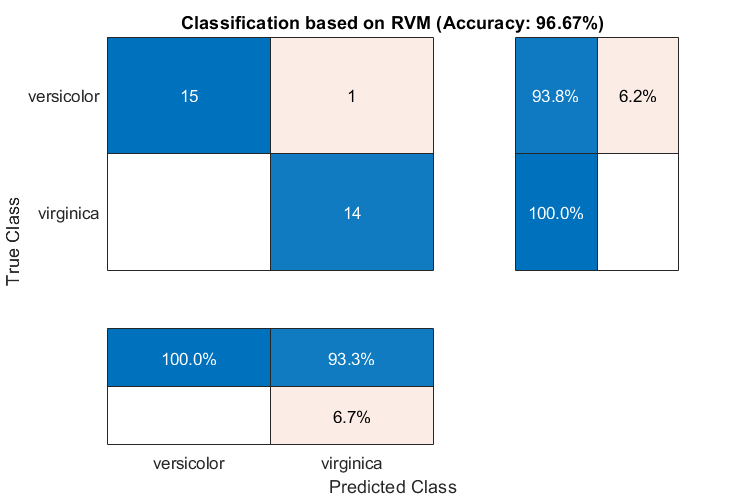
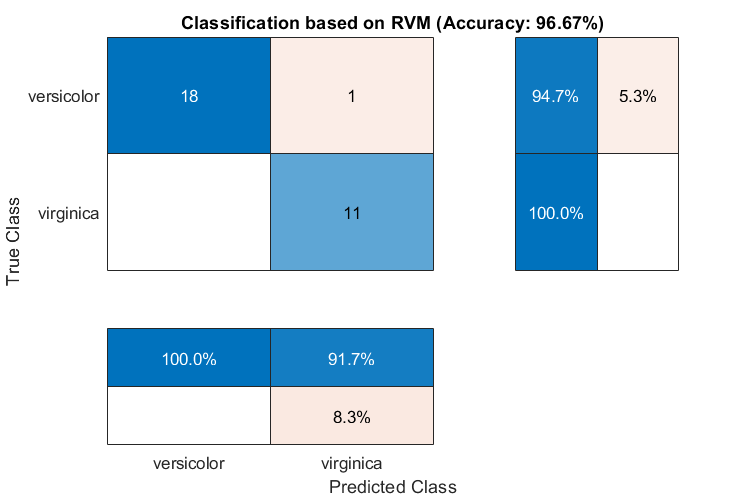
updated RVM code

diff --git a/RvmModel/RvmOption.m b/RvmModel/RvmOption.m
@@ -110,7 +110,7 @@ classdef RvmOption < handle
             name_ = fieldnames(parameter);
             for i = 1:size(name_, 1)
                 switch name_{i}
-                    case {'Holdout', 'KFold', 'Leaveout'}
+                    case {'HoldOut', 'KFold'}
                         obj.crossValidation.switch = 'on';
                         obj.crossValidation.method = name_{i, 1};
                         obj.crossValidation.param = parameter.(name_{i, 1});
@@ -141,7 +141,12 @@ classdef RvmOption < handle
         
         function displayTrain(obj)
             fprintf('\n')
-            fprintf('*** RVM model training finished ***\n')
+            switch obj.type
+                case 'RVR'
+                    fprintf('*** RVM model (regression) train finished ***\n')
+                case 'RVC'
+                    fprintf('*** RVM model (classification) train finished ***\n')
+            end
             fprintf('running time            = %.4f seconds\n', obj.runningTime)
             fprintf('iterations              = %d \n', obj.numIterations)
             fprintf('number of samples       = %d \n', obj.numSamples)
@@ -154,16 +159,6 @@ classdef RvmOption < handle
                     fprintf('MAE                     = %.4f\n', obj.performance.MAE)
                 case 'RVC'
                     fprintf('accuracy                = %.4f%%\n', 100*obj.performance.accuracy)
-                    if strcmp(obj.crossValidation.switch, 'on')
-                        tmp_1 = '(';
-                        tmp_2 = obj.crossValidation.method;
-                        tmp_3 = ', ';
-                        tmp_4 = num2str(obj.crossValidation.param);
-                        tmp_5 = ')';
-                        tmp_ = [tmp_1, tmp_2, tmp_3, tmp_4, tmp_5];
-                        tmp = ['CV accuracy ', tmp_, '  = %.4f%%\n'];
-                        fprintf(tmp, 100*obj.crossValidation.accuracy)
-                    end
             end
             if strcmp(obj.optimization.switch, 'on')
                 fprintf('Optimized parameter')
@@ -178,7 +173,12 @@ classdef RvmOption < handle
 
         function displayTest(obj)
             fprintf('\n')
-            fprintf('*** RVM model test finished ***\n')
+            switch obj.type
+                case 'RVR'
+                    fprintf('*** RVM model (regression) test finished ***\n')
+                case 'RVC'
+                    fprintf('*** RVM model (classification) test finished ***\n')
+            end
             fprintf('running time            = %.4f seconds\n', obj.runningTime)
             fprintf('number of samples       = %d \n', obj.numSamples)
             switch obj.type

diff --git a/RvmModel/RvmOptimization.m b/RvmModel/RvmOptimization.m
@@ -120,12 +120,13 @@ classdef RvmOptimization < handle
             RvmOptimizationOption.setParameter(rvm_);
             % cross validation
             if strcmp(rvm_.crossValidation.switch, 'on')
-                objValue = 1-RvmOptimization.crossvalFunc(rvm_);
+                objValue = RvmOptimization.crossvalFunc(rvm_);
             else
                 % train with all samples
                 rvm_.getModel;
+                evaluationMode_ = rvm_.evaluationMode;
                 rvm_.evaluationMode = 'train';
-                results_ = test(rvm_, rvm_.data, rvm_.label);
+                results_ = test(rvm_, rvm_.data, rvm_.label_);
                 rvm_.performance = rvm_.evaluateModel(results_);
                 switch rvm_.type
                     case 'RVR'
@@ -133,6 +134,7 @@ classdef RvmOptimization < handle
                     case 'RVC'
                         objValue = 1-rvm_.performance.accuracy;
                 end
+                rvm_.evaluationMode = evaluationMode_;
             end
         end
         
@@ -143,7 +145,7 @@ classdef RvmOptimization < handle
             rng('default')
             rvm_ = copy(rvm);
             data_ = rvm_.data;
-            label_ = rvm_.label;
+            label_ = rvm_.label_;
             rvm_.display = 'off';
             rvm_.evaluationMode = 'train';
             cvIndices = crossvalind(rvm.crossValidation.method, ...
@@ -156,7 +158,7 @@ classdef RvmOptimization < handle
                         testData = data_(testIndices, :);
                         testLabel = label_(testIndices, :);
                         rvm_.data = data_(~testIndices, :);
-                        rvm_.label = label_(~testIndices, :);
+                        rvm_.label_ = label_(~testIndices, :);
                         try
                             rvm_.getModel;
                         catch
@@ -173,12 +175,12 @@ classdef RvmOptimization < handle
                     end
                     accuracy_(accuracy_ == Inf) = [];
                     accuracy = mean(accuracy_);
-                case 'Holdout'
+                case 'HoldOut'
                     testIndices = (cvIndices == 0);
                     testData = data_(testIndices, :);
                     testLabel = label_(testIndices, :);
                     rvm_.data = data_(~testIndices, :);
-                    rvm_.label = label_(~testIndices, :);
+                    rvm_.label_ = label_(~testIndices, :);
                     rvm_.getModel;
                     results = rvm_.test(testData, testLabel);
                     switch rvm_.type

diff --git a/RvmModel/BaseRVM.m b/RvmModel/BaseRVM.m
@@ -68,7 +68,12 @@ classdef BaseRVM < handle & matlab.mixin.Copyable
             else
                 getModel(obj);
             end
-            
+%            % cross validation
+%             if strcmp(obj.crossValidation.switch, 'on')
+%                 rvm_ = copy(obj);
+%                 obj.crossValidation.accuracy = RvmOptimization.crossvalFunc(rvm_);
+%             end
+
             obj.runningTime = toc(tStart);
             % display
             if strcmp(obj.display, 'on')
@@ -148,7 +153,7 @@ classdef BaseRVM < handle & matlab.mixin.Copyable
             evaluationMode_ = obj.evaluationMode;
             obj.display = 'off';
             obj.evaluationMode = 'train';
-            results_ = test(obj, obj.data, obj.label);
+            results_ = test(obj, obj.data, obj.label_);
             obj.display = display_;
             obj.evaluationMode = evaluationMode_;
             obj.performance = evaluateModel(obj, results_);
@@ -158,9 +163,10 @@ classdef BaseRVM < handle & matlab.mixin.Copyable
             tStart = tic;
             results.type = obj.type;
             results.label = label;
+            results.label_ = label;
             results.data = data;
             results.classNames = unique(label);
-            if strcmp(obj.type, 'RVC')
+            if strcmp(obj.type, 'RVC') && strcmp(obj.evaluationMode,'test')
                 results.label_ = RvmOption.checkLabel(results, label);
             end
             results.numSamples = size(results.data, 1);

diff --git a/custom_option.m b/custom_option.m
@@ -1,0 +1,42 @@
+%% custom optimization option
+%{      
+    opt.method = 'bayes'; % bayes, ga, pso
+    opt.display = 'on';
+    opt.iteration = 20;
+    opt.point = 10;
+
+    % gaussian kernel function
+    opt.gaussian.parameterName = {'gamma'};
+    opt.gaussian.parameterType = {'real'};
+    opt.gaussian.lowerBound = 2^-6;
+    opt.gaussian.upperBound = 2^6;
+
+    % laplacian kernel function
+    opt.laplacian.parameterName = {'gamma'};
+    opt.laplacian.parameterType = {'real'};
+    opt.laplacian.lowerBound = 2^-6;
+    opt.laplacian.upperBound = 2^6;
+
+    % polynomial kernel function
+    opt.polynomial.parameterName = {'gamma'; 'offset'; 'degree'};
+    opt.polynomial.parameterType = {'real'; 'real'; 'integer'};
+    opt.polynomial.lowerBound = [2^-6; 2^-6; 1];
+    opt.polynomial.upperBound = [2^6; 2^6; 7];
+
+    % sigmoid kernel function
+    opt.sigmoid.parameterName = {'gamma'; 'offset'};
+    opt.sigmoid.parameterType = {'real'; 'real'};
+    opt.sigmoid.lowerBound = [2^-6; 2^-6];
+    opt.sigmoid.upperBound = [2^6; 2^6];
+%}
+
+%% RVM model parameter
+%{
+    'display'    :   'on', 'off'
+    'type'       :   'RVR', 'RVC'
+    'kernelFunc' :   kernel function
+    'KFolds'     :   cross validation, for example, 5
+    'HoldOut'    :   cross validation, for example, 0.3
+    'freeBasis'  :   'on', 'off'
+    'maxIter'    :   max iteration, for example, 1000
+%}

diff --git a/demo_hybrid_kernel_optimization.m b/demo_hybrid_kernel_optimization.m
@@ -8,21 +8,17 @@ clear all
 close all
 addpath(genpath(pwd))
 
-% use fisheriris dataset
-load fisheriris
-inds = ~strcmp(species, 'setosa');
-data_ = meas(inds, 3:4);
-label_ = species(inds);
-cvIndices = crossvalind('HoldOut', length(data_), 0.3);
-trainData = data_(cvIndices, :);
-trainLabel = label_(cvIndices, :);
-testData = data_(~cvIndices, :);
-testLabel = label_(~cvIndices, :);
+% data
+load UCI_data
+trainData = x;
+trainLabel = y;
+testData = xt;
+testLabel = yt;
 
 % kernel function
 kernel_1 = Kernel('type', 'gaussian', 'gamma', 0.5);
 kernel_2 = Kernel('type', 'polynomial', 'degree', 2);
-% kernel_3 = Kernel('type', 'sigmoid', 'gamma', 2);
+
 % parameter optimization
 opt.method = 'bayes'; % bayes, ga, pso
 opt.display = 'on';
@@ -30,14 +26,12 @@ opt.iteration = 30;
 
 % parameter
 parameter = struct( 'display', 'on',...
-                    'type', 'RVC',...
+                    'type', 'RVR',...
                     'kernelFunc', [kernel_1, kernel_2],...
                     'optimization', opt);
 rvm = BaseRVM(parameter);
 
 % RVM model training, testing, and visualization
 rvm.train(trainData, trainLabel);
-results = rvm.test(trainData, trainLabel);
+results = rvm.test(testData, testLabel);
 rvm.draw(results)
-
-

diff --git a/demo_RVR.m b/demo_RVR.m
@@ -8,18 +8,14 @@ close all
 addpath(genpath(pwd))
 
 % sinc funciton
-fun = @(x) sin(abs(x))/abs(x);
-x = linspace(-10, 10, 100);
-y = arrayfun(fun, x);
-trainData = x';
-trainLabel = y';
-xt = linspace(-10, 10, 20);
-yt = arrayfun(fun, xt);
-testData = xt';
-testLabel = yt';
+load sinc_data
+trainData = x;
+trainLabel = y;
+testData = xt;
+testLabel = yt;
 
 % kernel function
-kernel = Kernel('type', 'gaussian', 'gamma', 0.02);
+kernel = Kernel('type', 'gaussian', 'gamma', 0.1);
 
 % parameter
 parameter = struct( 'display', 'on',...
@@ -29,7 +25,7 @@ rvm = BaseRVM(parameter);
 
 % RVM model training, testing, and visualization
 rvm.train(trainData, trainLabel);
-results = rvm.test(trainData, trainLabel);
+results = rvm.test(testData, testLabel);
 rvm.draw(results)
 
 

diff --git a/demo_hybrid_kernel.m b/demo_hybrid_kernel.m
@@ -8,15 +8,11 @@ close all
 addpath(genpath(pwd))
 
 % sinc funciton
-fun = @(x) sin(abs(x))/abs(x);
-x = linspace(-10,10, 100);
-y = arrayfun(fun, x);
-trainData = x';
-trainLabel = y';
-xt = linspace(-10, 10, 20);
-yt = arrayfun(fun, xt);
-testData = xt';
-testLabel = yt';
+load sinc_data
+trainData = x;
+trainLabel = y;
+testData = xt;
+testLabel = yt;
 
 % kernel function
 kernel_1 = Kernel('type', 'gaussian', 'gamma', 0.3);
@@ -31,7 +27,7 @@ rvm = BaseRVM(parameter);
 
 % RVM model training, testing, and visualization
 rvm.train(trainData, trainLabel);
-results = rvm.test(trainData, trainLabel);
+results = rvm.test(testData, testLabel);
 rvm.draw(results)
 
 

diff --git a/demo_RVC.m b/demo_RVC.m
@@ -31,6 +31,3 @@ rvm = BaseRVM(parameter);
 rvm.train(trainData, trainLabel);
 results = rvm.test(testData, testLabel);
 rvm.draw(results)
-
-
-
